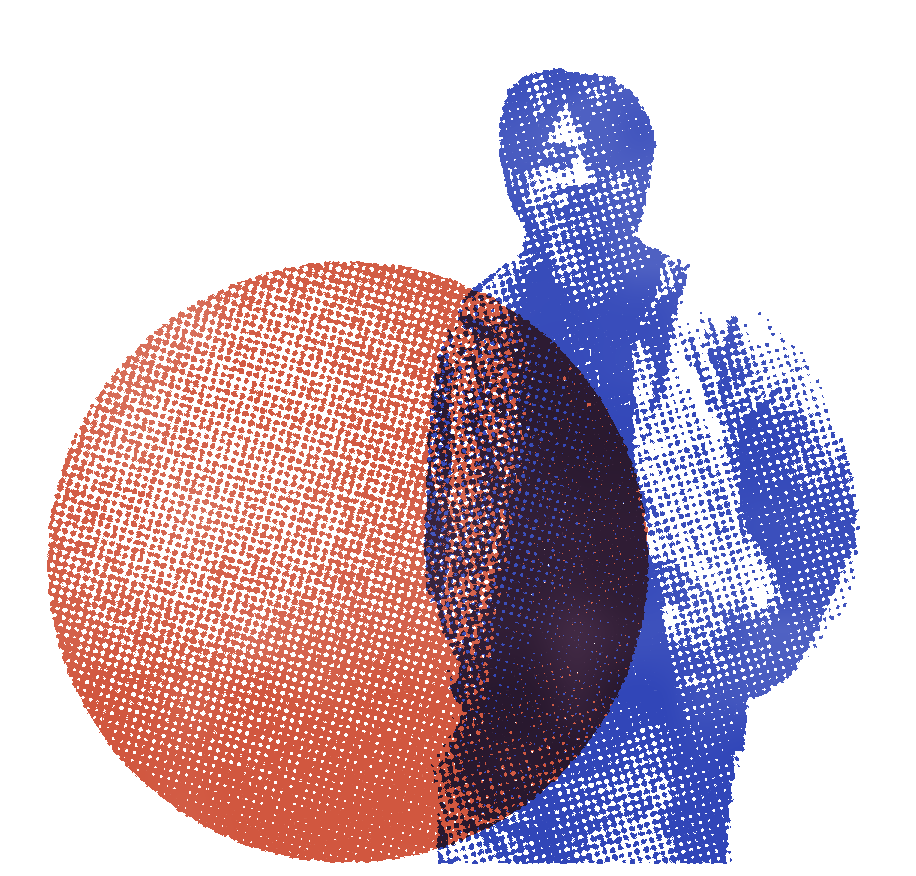
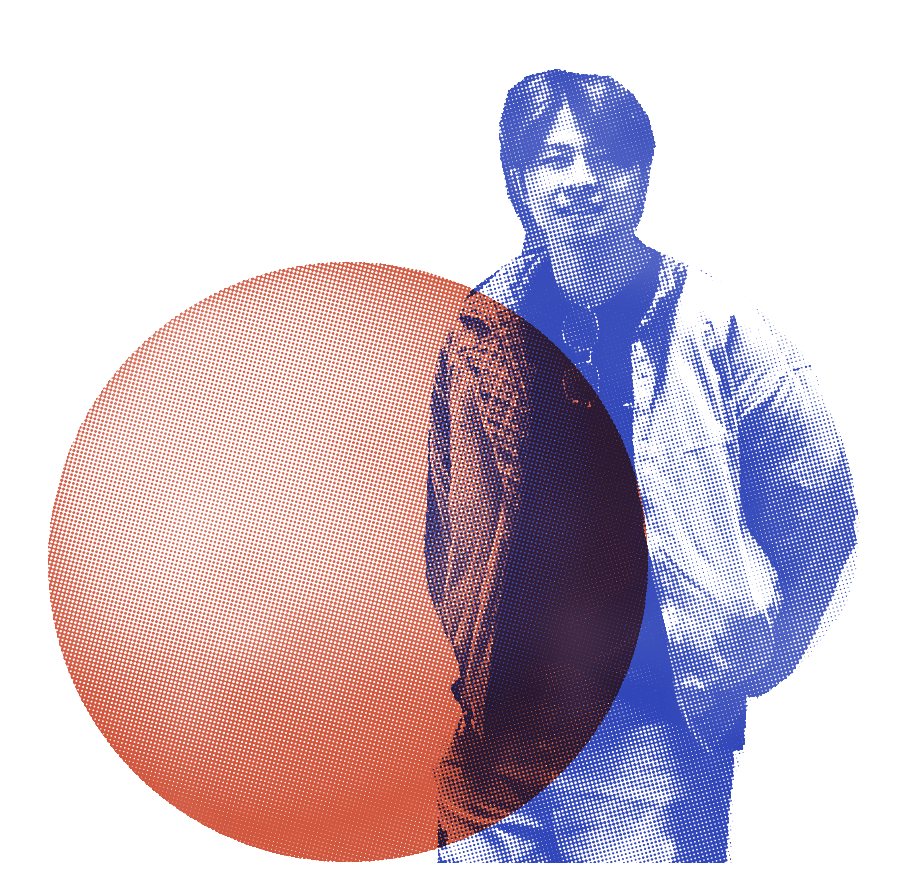
Align phone and desktop print states; faster first click; finer portrait screen
- Current nav tab is the same exact-register overprint at every width
- Hover-only effects live under @media (hover:hover); no sticky underline after tap
- Roller banding uses a fixed 1440px drum instead of stretching with page length
- Headings below 72px print in exact register (variant C)
- Portrait and its circle use the fine 2px screen
- Renderer yields between elements, prepares hidden areas when idle, encodes masks async;
  noise lookups optimised with unchanged random sequences
- DESIGN_CONSTRAINTS: sections 4, 16, 19 updated, new section 21

Claude-Session: https://claude.ai/code/session_013CxSncGybCVXkDwv6LtpYX

Changed region(s): [[0.0306, 0.0616, 0.9476, 0.9863]]

diff --git a/src/client/print-material.ts b/src/client/print-material.ts
@@ -48,44 +48,24 @@ if(root){
   const data=ground?paintMaterial([{ink,coverage:flat}],w,h,{a:[0,0,0],b:[0,0,0],paper:[255,255,255]},{...p,offset:{x:0,y:0}},dpr):new Uint8ClampedArray(w*h*4);
   for(let i=0;i<data.length;i+=4){const alpha=ground?255-data[i]:255*flat[i/4];data[i]=data[i+1]=data[i+2]=0;data[i+3]=alpha;}
   const canvas=pixelSurface(data,w,h);
-  const url=canvas.toDataURL();ticket.commit(()=>{el.style.maskImage=`url(${url})`;el.style.maskSize='100% 100%';el.dataset.materialMask='true';});
+  // Encode off the main thread; a superseded result is discarded and its URL released.
+  canvas.toBlob(blob=>{if(!blob)return;const url=URL.createObjectURL(blob);
+   if(!ticket.commit(()=>{const previous=el.dataset.maskUrl;el.style.maskImage=`url(${url})`;el.style.maskSize='100% 100%';el.dataset.materialMask='true';el.dataset.maskUrl=url;if(previous)URL.revokeObjectURL(previous);}))URL.revokeObjectURL(url);
+  });
  }
  function schedule(){cancelAnimationFrame(frame);frame=requestAnimationFrame(()=>void render());}
- async function render(){
-  const run=++generation;
-  await document.fonts.ready;if(run!==generation)return;
-  root!.querySelectorAll<HTMLElement>('.he-type-line').forEach(el=>{
-   const size=parseFloat(getComputedStyle(el).fontSize),large=size>=24;el.dataset.pressLarge=String(large);el.dataset.pressFine=String(size<24);el.dataset.textTier=textTier(size);
-   el.style.setProperty('--dot-pitch',`${dotPitch(size)}px`);
-   if(el.closest('.he-page')?.getAttribute('aria-hidden')==='true')return;
-   const owner=el.closest<HTMLElement>('[data-style-element]'),area=owner?.dataset.styleAreaOwner||el.closest<HTMLElement>('[data-style-area]')?.dataset.styleArea;
-   const s=resolve(config,area as Area|undefined,owner?.dataset.styleElement).values;
-   for(const ink of ['a','b'] as const){const layer=el.querySelector<HTMLElement>(`.he-type-${ink}`);if(!layer)continue;
-    const dotted=size>=72&&s.titleTreatment==='dotted'&&ink==='b'&&typeScreenLevel(size)!==null;
-    // The dotted plate is painted by CSS (--dot-plate) from the first frame; a JS mask would replace it.
-    if(dotted){if(layer.dataset.materialMask){layer.style.removeProperty('mask-image');layer.style.removeProperty('mask-size');delete layer.dataset.materialMask;inkMounts.get(layer)?.invalidate();}
-     recordScreen(layer,elementPress(pressSettings(s,typeScreenLevel(size)!,size),owner?.dataset.styleElement||'shared-type','title',size),ink,size);continue;}
-    if(size>=24)textureMask(layer,ink,s,false);else{layer.style.removeProperty('mask-image');delete layer.dataset.materialMask;inkMounts.get(layer)?.invalidate();clearScreen(layer);}
-   }
-  });
-  root!.querySelectorAll<HTMLElement>('.he-project-ground').forEach(el=>{
-   if(el.closest('.he-page')?.getAttribute('aria-hidden')==='true')return;
-   const s=resolve(config,el.dataset.styleAreaOwner as Area,el.dataset.styleElement).values;if(s.groundOpacity===0){clearScreen(el);return;}
-   textureMask(el,s.groundInk==='primary'?'b':'a',s);
-  });
-  root!.querySelectorAll<HTMLElement>('.he-divider-band').forEach(el=>{
-   const s=resolve(config,'home').values;
-   if(s.homeDividerStyle!=='print'){clearScreen(el);inkMounts.get(el)?.invalidate();return;}
-   textureMask(el,'b',{...s,groundOpacity:s.homeDividerCoverage});
-  });
-  for(const svg of root!.querySelectorAll<SVGSVGElement>('[data-print-field]')){
-   const bounds=svg.getBoundingClientRect();if(!bounds.width||!bounds.height)continue;
-   if(svg.closest('.he-page')?.getAttribute('aria-hidden')==='true')continue;
+ /** Each element is its own task so input can interleave; areas that are not on screen are
+  * prepared in idle time afterwards, so opening them later finds finished prints. */
+ const yieldToMain=()=>new Promise<void>(done=>setTimeout(done,0));
+ const whenIdle=()=>new Promise<void>(done=>{if('requestIdleCallback' in window)requestIdleCallback(()=>done(),{timeout:1500});else setTimeout(done,40);});
+ const offscreen=(el:Element)=>el.closest('.he-page')?.getAttribute('aria-hidden')==='true';
+ async function renderField(svg:SVGSVGElement,run:number){
+   const bounds=svg.getBoundingClientRect();if(!bounds.width||!bounds.height)return;
    const el=svg.parentElement!,page=svg.closest<HTMLElement>('.he-page')!;
    const s=resolve(config,svg.dataset.printArea as Area,svg.dataset.printField).values,global=resolve(config).values;
    let p=elementPress(pressSettings({...s,registration:global.registration,registrationY:global.registrationY}),svg.dataset.printField!,'field');
    const dpr=Math.max(1,devicePixelRatio||1),w=Math.round(svg.clientWidth*dpr),h=Math.round(svg.clientHeight*dpr),origin=paperOrigin(svg,page);
-   const palette=getPalette(config,s.palette),proof=root!.dataset.typeProof,key=JSON.stringify([w,h,s.fieldCoverage,s.fieldOverlap,page.offsetHeight,p,global.seed,palette,origin,proof]);p=onSheet(p,global.seed,origin,page.offsetHeight);let mount=mounts.get(svg);if(!mount){mount=createPrintMount();mounts.set(svg,mount);}const ticket=mount.begin(key);if(!ticket)continue;
+   const palette=getPalette(config,s.palette),proof=root!.dataset.typeProof,key=JSON.stringify([w,h,s.fieldCoverage,s.fieldOverlap,page.offsetHeight,p,global.seed,palette,origin,proof]);p=onSheet(p,global.seed,origin,page.offsetHeight);let mount=mounts.get(svg);if(!mount){mount=createPrintMount();mounts.set(svg,mount);}const ticket=mount.begin(key);if(!ticket)return;
    try{
     const originals:FieldOriginal[]=[],screenedInks=new Set<'a'|'b'>();
     for(const ink of ['a','b'] as const){
@@ -110,8 +90,44 @@ if(root){
     canvas.dataset.pressRecipe=JSON.stringify({level:p.level,shapes:p.shapes,pitch:p.pitch,angles:p.angles,offset:p.offset,origin,tone:p.tone,units:'CSS px',materialVersion});
 
    }catch(error){console.warn('Keeping pre-rendered print fallback.',error);}
+   }
+ async function render(){
+  const run=++generation;
+  await document.fonts.ready;if(run!==generation)return;
+  const later:(()=>void|Promise<void>)[]=[];
+  const now=async(job:()=>void|Promise<void>)=>{await job();await yieldToMain();return run===generation;};
+  for(const el of root!.querySelectorAll<HTMLElement>('.he-type-line')){
+   const size=parseFloat(getComputedStyle(el).fontSize),large=size>=24;el.dataset.pressLarge=String(large);el.dataset.pressFine=String(size<24);el.dataset.textTier=textTier(size);
+   el.style.setProperty('--dot-pitch',`${dotPitch(size)}px`);
+   const owner=el.closest<HTMLElement>('[data-style-element]'),area=owner?.dataset.styleAreaOwner||el.closest<HTMLElement>('[data-style-area]')?.dataset.styleArea;
+   const job=()=>{
+    const s=resolve(config,area as Area|undefined,owner?.dataset.styleElement).values;
+    for(const ink of ['a','b'] as const){const layer=el.querySelector<HTMLElement>(`.he-type-${ink}`);if(!layer)continue;
+     const dotted=size>=72&&s.titleTreatment==='dotted'&&ink==='b'&&typeScreenLevel(size)!==null;
+     // The dotted plate is painted by CSS (--dot-plate) from the first frame; a JS mask would replace it.
+     if(dotted){if(layer.dataset.materialMask){layer.style.removeProperty('mask-image');layer.style.removeProperty('mask-size');delete layer.dataset.materialMask;inkMounts.get(layer)?.invalidate();}
+      recordScreen(layer,elementPress(pressSettings(s,typeScreenLevel(size)!,size),owner?.dataset.styleElement||'shared-type','title',size),ink,size);continue;}
+     if(size>=24)textureMask(layer,ink,s,false);else{layer.style.removeProperty('mask-image');delete layer.dataset.materialMask;inkMounts.get(layer)?.invalidate();clearScreen(layer);}
+    }
+   };
+   if(offscreen(el))later.push(job);else if(!await now(job))return;
+  }
+  for(const el of root!.querySelectorAll<HTMLElement>('.he-project-ground')){
+   const job=()=>{const s=resolve(config,el.dataset.styleAreaOwner as Area,el.dataset.styleElement).values;if(s.groundOpacity===0){clearScreen(el);return;}
+    textureMask(el,s.groundInk==='primary'?'b':'a',s);};
+   if(offscreen(el))later.push(job);else if(!await now(job))return;
+  }
+  for(const el of root!.querySelectorAll<HTMLElement>('.he-divider-band')){
+   const job=()=>{const s=resolve(config,'home').values;
+    if(s.homeDividerStyle!=='print'){clearScreen(el);inkMounts.get(el)?.invalidate();return;}
+    textureMask(el,'b',{...s,groundOpacity:s.homeDividerCoverage});};
+   if(offscreen(el))later.push(job);else if(!await now(job))return;
+  }
+  for(const svg of root!.querySelectorAll<SVGSVGElement>('[data-print-field]')){
+   if(offscreen(svg))later.push(()=>renderField(svg,run));else if(!await now(()=>renderField(svg,run)))return;
   }
   root!.dispatchEvent(new CustomEvent('design:screen-rendered'));
+  for(const job of later){await whenIdle();if(run!==generation)return;await job();}
  }
  root.addEventListener('design:updated',e=>{config=(e as CustomEvent<DesignConfig>).detail;schedule();});
  root.addEventListener('design:type-updated',()=>{root!.querySelectorAll<HTMLElement>('.he-type-line').forEach(el=>observer.observe(el));schedule();});

diff --git a/src/styles/duotone-type.css b/src/styles/duotone-type.css
@@ -14,14 +14,17 @@
 #personal-site [data-treatment="dotted"]>.he-type-line>.he-type-b{color:var(--blue-ink);-webkit-text-fill-color:currentColor;background:none;transform:translate(var(--press-reg-x),var(--press-reg-y));}
 /* Navigation and linked project names receive the red plate on interaction. */
 #personal-site :is(.he-nav a,.he-project-imprint h3 a,.he-artifact h2 a,.he-pillars h3 a) .he-type-a{opacity:0;}
-#personal-site :is(.he-nav a,.he-project-imprint h3 a,.he-artifact h2 a,.he-pillars h3 a):is(:hover,:focus-visible,[aria-current="page"]) .he-type-a{opacity:1;}
+#personal-site :is(.he-nav a,.he-project-imprint h3 a,.he-artifact h2 a,.he-pillars h3 a):is(:focus-visible,[aria-current="page"]) .he-type-a{opacity:1;}
+@media (hover:hover){#personal-site :is(.he-nav a,.he-project-imprint h3 a,.he-artifact h2 a,.he-pillars h3 a):hover .he-type-a{opacity:1;}}
 #personal-site .he-nav a::after{filter:none;}
 #personal-site .he-pillars a .he-type-b{text-decoration:underline;text-decoration-thickness:1.5px;text-underline-offset:4px;}
-#personal-site a:hover .he-type-line>.he-type-b{text-decoration:underline;text-underline-offset:.12em;}
+@media (hover:hover){#personal-site a:hover .he-type-line>.he-type-b{text-decoration:underline;text-underline-offset:.12em;}}
 /* Fine type is one untextured blue plate, with no artificial grey hierarchy. */
 #personal-site :is(p,summary,.he-date,.he-meta,.he-item-meta,.he-contact a,.he-project-resources a,.he-theme-tags a,.he-shortcuts a,.he-reading-marker,.he-artifact-controls button,.he-artifact-group-label,.he-slogan-prefix){background-image:none;-webkit-text-fill-color:currentColor;}
 #personal-site :is(.em-ink,.em-knock){background:none;color:inherit;-webkit-text-fill-color:currentColor;font:inherit;font-weight:600;text-decoration:none;padding:0;margin:0;}
 #personal-site .he-type-line[data-press-fine="true"]>.he-type-a{opacity:0!important;}
+/* Exception: the current tab is the same exact-register overprint at every width, so phone and desktop show one state. */
+#personal-site .he-nav a[aria-current="page"] .he-type-line[data-press-fine="true"]>.he-type-a{opacity:1!important;}
 #personal-site .he-type-line[data-press-fine="true"]>.he-type-b{transform:none;filter:none;mask-image:none!important;}
 #personal-site .he-item-meta strong{background:var(--blue-ink);color:var(--paper);-webkit-text-fill-color:var(--paper);}
 #personal-site .he-page::after{opacity:1;}
@@ -77,3 +80,9 @@
 @supports (width:round(nearest,1px,1px)){#personal-site [data-treatment="dotted"]>.he-type-line{--dot-pitch:max(2px,round(nearest,1em / 16,1px));}}
 #personal-site [data-treatment="dotted"]>.he-type-line>.he-type-b{-webkit-mask-image:var(--dot-plate);mask-image:var(--dot-plate);-webkit-mask-repeat:no-repeat;mask-repeat:no-repeat;-webkit-mask-position:0 0;mask-position:0 0;-webkit-mask-size:calc(var(--dot-pitch) * 400) calc(var(--dot-pitch) * 100);mask-size:calc(var(--dot-pitch) * 400) calc(var(--dot-pitch) * 100);}
 #personal-site [data-treatment="dotted"]>.he-type-line:is([data-text-tier="heading"],[data-text-tier="body"])>.he-type-b{-webkit-mask-image:none;mask-image:none;}
+
+/* Misregistration belongs to display type only (>=72px). Below that a .75px shift is a large
+   share of the stroke and reads as colour fringing, worst on phones; headings print in exact
+   register and keep the two-ink overprint colour. The gate is computed from 1em, so it holds
+   from the first frame. The dotted name keeps its own .5px rule above. */
+#personal-site :not([data-treatment="dotted"])>.print-2ink.he-type-line>.he-type-b{--type-reg:clamp(0px,calc((1em - 71.5px) * 1000),.75px);transform:translate(clamp(calc(-1 * var(--type-reg)),var(--press-reg-x),var(--type-reg)),clamp(calc(-1 * var(--type-reg)),var(--press-reg-y),var(--type-reg)));}

diff --git a/src/design/print-pipeline/noise.ts b/src/design/print-pipeline/noise.ts
@@ -5,13 +5,30 @@ export function salt(seed:number,key:string){for(const c of key)seed=Math.imul(s
 /** Continuous seeded value noise; four octaves form an fBm field in CSS pixels.
  * Lattice randomness uses Print Lab's original mulberry32 PRNG. */
 export function valueNoise(seed:number,cell:number){
- const cache=new Map<string,number>();
- const value=(x:number,y:number)=>{const key=`${x}:${y}`;let v=cache.get(key);if(v===undefined){v=rng(salt(seed,key))();cache.set(key,v);}return v;};
- return (x:number,y:number)=>{x/=cell;y/=cell;const ix=Math.floor(x),iy=Math.floor(y),u=smooth(x-ix),v=smooth(y-iy),a=value(ix,iy),b=value(ix+1,iy),c=value(ix,iy+1),d=value(ix+1,iy+1);return(a+(b-a)*u)*(1-v)+(c+(d-c)*u)*v;};
+ // Lattice values are unchanged (seeded by the "x:y" key). Lookups use a numeric key and
+ // reuse the last cell's four corners, since neighbouring pixels almost always share it.
+ const cache=new Map<number,number>(),bias=1<<20,span=2**21;
+ const value=(x:number,y:number)=>{const key=(x+bias)*span+(y+bias);let v=cache.get(key);if(v===undefined){v=rng(salt(seed,`${x}:${y}`))();cache.set(key,v);}return v;};
+ let cx=NaN,cy=NaN,a=0,b=0,c=0,d=0;
+ return (x:number,y:number)=>{x/=cell;y/=cell;const ix=Math.floor(x),iy=Math.floor(y);
+  if(ix!==cx||iy!==cy){cx=ix;cy=iy;a=value(ix,iy);b=value(ix+1,iy);c=value(ix,iy+1);d=value(ix+1,iy+1);}
+  const u=smooth(x-ix),v=smooth(y-iy);return(a+(b-a)*u)*(1-v)+(c+(d-c)*u)*v;};
 }
 export function fbm(seed:number,cell:number){const fields=Array.from({length:4},(_,i)=>valueNoise(salt(seed,String(i)),cell/2**i));return(x:number,y:number)=>fields.reduce((n,f,i)=>n+f(x,y)*2**-i,0)/1.875;}
 
 export {lowNoise,spread,spotT,boxBlur} from '../vendor/print-lab-core.js';
+/** Print Lab's lowNoise(n, grid, r) restricted to the top-left w×h of its n×n square, with
+ * stride w. The lattice draws happen first and in the same order, so every value is
+ * identical to the square version; only the unused rows and columns are skipped. */
+export function lowNoiseRect(n:number,grid:number,r:()=>number,w:number,h:number){
+ const G=grid+1,v=new Float32Array(G*G);for(let i=0;i<v.length;i++)v[i]=r();
+ const out=new Float32Array(w*h),sc=grid/n;
+ for(let y=0;y<h;y++){const fy=y*sc,iy=Math.floor(fy),ty=fy-iy,sy=ty*ty*(3-2*ty);
+  for(let x=0;x<w;x++){const fx=x*sc,ix=Math.floor(fx),tx=fx-ix,sx=tx*tx*(3-2*tx);
+   const a=v[iy*G+ix],b=v[iy*G+ix+1],c=v[(iy+1)*G+ix],d=v[(iy+1)*G+ix+1];
+   out[y*w+x]=(a+(b-a)*sx)+((c+(d-c)*sx)-(a+(b-a)*sx))*sy;}}
+ return out;
+}
 
 // Versioned compatibility generators. Do not substitute algorithms: seeds are visual data.
 export function legacyXorshift(seed:number){let s=seed>>>0||1;return()=>{s^=s<<13;s^=s>>>17;s^=s<<5;return((s>>>0)%100000)/100000;};}

diff --git a/src/styles/press-system.css b/src/styles/press-system.css
@@ -9,16 +9,16 @@
 #personal-site .he-print-word .he-type-line {width:auto;}
 #personal-site .he-print-word .he-type-a {transform:translate(calc(-1 * clamp(-.025em,var(--registration-x),.025em)),calc(-1 * clamp(-.015em,var(--registration-y),.015em)));}
 #personal-site :is(.he-project h3,.he-artifact h2) a {text-decoration:none;display:inline;}
-#personal-site :is(.he-project h3,.he-artifact h2) a:hover {text-decoration:underline;text-decoration-thickness:2px;text-underline-offset:8px;}
+@media (hover:hover){#personal-site :is(.he-project h3,.he-artifact h2) a:hover {text-decoration:underline;text-decoration-thickness:2px;text-underline-offset:8px;}}
 #personal-site .he-project-resources a,#personal-site .he-contact a {text-decoration:none;border-bottom:1.5px solid var(--ink);padding-block:4px;}
-#personal-site .he-project-resources a:hover,#personal-site .he-contact a:hover {border-bottom-width:3px;}
+@media (hover:hover){#personal-site .he-project-resources a:hover,#personal-site .he-contact a:hover {border-bottom-width:3px;}}
 #personal-site .he-item-meta {font:500 11px/1.7 var(--metadata-face);letter-spacing:.025em;color:var(--ink);}
 #personal-site .he-item-meta strong {font-weight:500;background:var(--ink);color:var(--paper);padding:4px 6px;margin-right:8px;box-decoration-break:clone;}
 #personal-site .he-theme-tags {gap:8px 18px;}
 #personal-site .he-theme-tags li {border:0;}
 #personal-site .he-theme-tags a {text-decoration:none;}
 #personal-site .he-theme-tags a::before {content:"↗";margin-right:5px;color:var(--ink);}
-#personal-site .he-theme-tags a:hover {text-decoration:underline;}
+@media (hover:hover){#personal-site .he-theme-tags a:hover {text-decoration:underline;}}
 #personal-site .he-project-details {border-top:0;border-bottom:1.5px solid var(--ink);}
 #personal-site .he-project-details summary {font:400 11px/1.6 var(--metadata-face);padding-block:14px;}
 #personal-site .he-external-mark {font:400 .6em/1 var(--metadata-face);vertical-align:top;display:inline-block;margin-left:.15em;}
@@ -63,7 +63,7 @@
 #personal-site .he-publication-index li::marker {font:500 12px var(--metadata-face);color:var(--blue-ink);}
 #personal-site .he-publication-index li .he-item-meta {border-left:3px solid var(--blue-ink);padding-left:10px;}
 #personal-site .he-publication-index h3 a {text-decoration:none;}
-#personal-site .he-publication-index h3 a:hover {text-decoration:underline;}
+@media (hover:hover){#personal-site .he-publication-index h3 a:hover {text-decoration:underline;}}
 
 /* Artifacts remain interleaved; content identity controls its printed object.
    Regrouping changes the grid placement, never the object attached to a work. */

diff --git a/src/styles/navigation.css b/src/styles/navigation.css
@@ -8,7 +8,7 @@
 #personal-site .he-nav-label {max-inline-size:100%;font:750 clamp(17px,1.9cqw,25px)/1.08 var(--display-face);letter-spacing:-.025em;color:inherit;}
 #personal-site .he-nav a::after {content:"";position:absolute;left:0;right:0;bottom:0;height:max(3px,var(--geometry-stroke));background:var(--red-ink);opacity:0;pointer-events:none;}
 #personal-site .he-nav a[aria-current="page"]::after {opacity:1;}
-#personal-site .he-nav a:not([aria-current="page"]):hover .he-nav-label {text-decoration:underline;text-decoration-thickness:2px;text-underline-offset:5px;}
+@media (hover:hover){#personal-site .he-nav a:not([aria-current="page"]):hover .he-nav-label,#personal-site .he-shortcuts a:hover {text-decoration:underline;text-decoration-color:var(--ink);text-decoration-thickness:2px;text-underline-offset:5px;}}
 #personal-site .he-nav a:focus-visible {outline:2px solid var(--ink);outline-offset:6px;}
 #personal-site .he-nav-plate {display:none;position:absolute;inset:3px -7px 0;width:calc(100% + 14px);height:calc(100% - 3px);overflow:visible;z-index:-1;pointer-events:none;isolation:isolate;}
 #personal-site .he-nav-plate-a {fill:var(--red-ink);transform:translate(clamp(-3px,var(--registration-x),3px),clamp(-3px,var(--registration-y),3px));}
@@ -29,7 +29,7 @@
 #personal-site .he-shortcuts[hidden] {display:none;}
 #personal-site .he-shortcuts a {display:flex;gap:12px;align-items:center;min-height:44px;color:var(--ink);text-decoration:none;font:500 13px/1.3 var(--reading-face);}
 #personal-site .he-shortcuts a > span {font:500 12px/1.5 var(--metadata-face);}
-#personal-site .he-shortcuts a:hover,#personal-site .he-shortcuts a[aria-current="location"] {text-decoration:underline;text-decoration-color:var(--ink);text-decoration-thickness:2px;text-underline-offset:5px;}
+#personal-site .he-shortcuts a[aria-current="location"] {text-decoration:underline;text-decoration-color:var(--ink);text-decoration-thickness:2px;text-underline-offset:5px;}
 @container(max-width:720px) {
  #personal-site .he-nav a {grid-column:span 1;}
 }

diff --git a/src/design/print-pipeline/tone.ts b/src/design/print-pipeline/tone.ts
@@ -1,4 +1,4 @@
-import {lowNoise,rng} from './noise.ts';
+import {lowNoiseRect,rng} from './noise.ts';
 import {noiseBudget,within} from './budget.ts';
 import type {Settings} from '../settings.ts';
 
@@ -18,8 +18,8 @@ export function makeToneField(mask:Float32Array,width:number,height:number,scale
  if(s.exposure===0)return new Float32Array(width*height);
  // Pre-screen variation resizes dots: bounded amplitude, never finer than the budget scale.
  const amplitude=within(s.noise,noiseBudget.tone.amplitude),featureScale=Math.max(noiseBudget.tone.minScale,s.noiseScale||0);
- const n=Math.max(width,height),random=rng(seed),noise=lowNoise(n,Math.max(1,Math.ceil(n/(featureScale*.5*scale))),random);
- const second=lowNoise(n,Math.max(1,Math.ceil(n/(featureScale*.23*scale))),random);
+ const n=Math.max(width,height),random=rng(seed),noise=lowNoiseRect(n,Math.max(1,Math.ceil(n/(featureScale*.5*scale))),random,width,height);
+ const second=lowNoiseRect(n,Math.max(1,Math.ceil(n/(featureScale*.23*scale))),random,width,height);
  const out=new Float32Array(width*height),angle=s.light*Math.PI/180,lx=Math.cos(angle)*.66,ly=Math.sin(angle)*.66,lz=Math.sqrt(1-.66*.66);
  const clamp=(v:number,a:number,b:number)=>Math.max(a,Math.min(b,v));
  for(let y=0;y<height;y++)for(let x=0;x<width;x++){
@@ -37,7 +37,7 @@ export function makeToneField(mask:Float32Array,width:number,height:number,scale
    const direction=-(u*lx+v*ly)/(Math.abs(lx)+Math.abs(ly));
    value=(s.planeMin+s.planeMax)/2+(s.planeMax-s.planeMin)/2*direction*s.direction;
   }
-  const variation=((noise[y*n+x]*.7+second[y*n+x]*.3)-.5)*2*amplitude;
+  const variation=((noise[i]*.7+second[i]*.3)-.5)*2*amplitude;
   const lo=kind==='sphere'?s.sphereMin:s.planeMin,hi=kind==='sphere'?s.sphereMax:s.planeMax;
   out[i]=mask[i]*clamp(clamp(value+variation,lo,hi)*s.exposure,.005,.97);
  }

diff --git a/src/client/portrait-composition.ts b/src/client/portrait-composition.ts
@@ -1,7 +1,7 @@
 import {paperOrigin,pixelSurface,cropSurface,publishCanvas,createPrintMount} from '../design/print-pipeline/browser';
 import {recordScreen} from './screen-data';
 import {design} from '../config/design';
-import {selectedComposition as recipe,portraitViewport as view} from '../config/portrait-composition';
+import {selectedComposition as recipe,portraitViewport as view,portraitScreenLevel} from '../config/portrait-composition';
 import {canvasLayers,paintComposition,type CompositionChoice} from '../design/composition-canvas';
 import {getPalette,resolve,type DesignConfig} from '../design/settings';
 import type {Operation} from '../design/element-composition';
@@ -25,7 +25,7 @@ if(root&&figure&&canvas&&fallback){
    const palette=getPalette(config,s.palette),dpr=Math.max(window.devicePixelRatio||1,1);
    const choice:CompositionChoice={op:s.compositionOperation as Operation,shape:s.compositionShape,pitch:s.compositionPitch,mis:s.compositionMis};
    const width=Math.round(fallback.clientWidth*dpr),fullWidth=Math.round(width*recipe.sheet.width/view.width);
-   let press=elementPress(pressSettings({...s,registration:resolve(config).values.registration,registrationY:resolve(config).values.registrationY}),'home-portrait','image');
+   let press=elementPress(pressSettings({...s,registration:resolve(config).values.registration,registrationY:resolve(config).values.registrationY},portraitScreenLevel),'home-portrait','image');
    const position=paperOrigin(fallback,home!),unit=fallback.clientWidth/view.width;
    const origin={x:position.x-view.x*unit,y:position.y-view.y*unit};
    press=onSheet(press,resolve(config).values.seed,origin,home!.offsetHeight);

diff --git a/src/design/print-pipeline/sheet.ts b/src/design/print-pipeline/sheet.ts
@@ -10,9 +10,13 @@ function createFields(seed:number){const random=rng(salt(seed,'sheet-roller')),r
 export function sheetFields(seed:number){let f=fields.get(seed);if(!f){f=createFields(seed);if(fields.size>=4)fields.clear();fields.set(seed,f);}return f;}
 export function sheetInk(seed:number,x:number,y:number){const f=sheetFields(seed);return f.low(x,y)*.65+f.detail(x,y)*.35;}
 export function onSheet<Id extends string>(press:Press<Id>,seed:number,origin:{x:number;y:number},height=1440):Press<Id>{return {...press,sheet:{seed,origin,height,band:press.band}};}
-/** Native 20-interval smoothstep roller field, sampled in sheet Y coordinates. */
+/** Roller marks are a property of the press, not of the page: one drum of 20 smoothstep
+ * intervals spans 1440 CSS px (the design canvas) and then runs back, so every page,
+ * at every width and length, carries roller bands of the same size at the same sheet Y.
+ * Within 0–1440 the field is the native one; past it, it mirrors (seamless, no clamp). */
+export const rollerDrum=1440;
 export function sheetRoller(sheet:Sheet,y:number){
- const rows=sheetFields(sheet.seed).rows,position=Math.max(0,Math.min(20,y/(sheet.height||1440)*20)),i=Math.min(19,Math.floor(position)),t=position-i,u=t*t*(3-2*t);
+ const rows=sheetFields(sheet.seed).rows,turn=((y/rollerDrum)%2+2)%2,position=(turn>1?2-turn:turn)*20,i=Math.min(19,Math.floor(position)),t=position-i,u=t*t*(3-2*t);
  return Math.max(0,Math.min(1,((rows[i]+(rows[i+1]-rows[i])*u)-.5)*2.4+.5));
 }
 /** Rectangular counterpart of native spread; binary expansion, no convolution. */

diff --git a/src/styles/research-map.css b/src/styles/research-map.css
@@ -11,7 +11,7 @@
 #personal-site .rm-label-hit{fill:none;stroke:transparent;pointer-events:stroke;}
 #personal-site .rm-label-arc text{pointer-events:visiblePainted;}
 #personal-site .rm-directions a:focus-visible{outline:none;}
-#personal-site .rm-directions a:is(:hover,:focus-visible) text{text-decoration:underline;text-decoration-thickness:2px;text-underline-offset:4px;}
+@media (hover:hover){#personal-site .rm-directions a:is(:hover,:focus-visible) text{text-decoration:underline;text-decoration-thickness:2px;text-underline-offset:4px;}}
 #personal-site:has(.research-map[data-view="circles"]) .rm-tree,#personal-site:has(.research-map[data-view="circles"]) .he-home-branches{display:none;}
 #personal-site .research-map[data-view="tree"]{display:none;}
 #personal-site:has(.research-map[data-view="circles"]) .he-home .he-brand{grid-column:1/5;}
@@ -35,7 +35,7 @@
 #personal-site .rm-touch-help{display:none;}
 @media(pointer:coarse){#personal-site .rm-touch-help{display:block;font-size:12px;}#personal-site .rm-touch-help a[hidden]{display:none;}}
 
-#personal-site .rm-directions a:hover{text-decoration:underline;}
+@media (hover:hover){#personal-site .rm-directions a:hover{text-decoration:underline;}}
 #personal-site .rm-fallback{position:absolute;inset:0;width:100%;height:100%;}
 #personal-site .rm-inks{visibility:hidden;}
 #personal-site [data-canvas-ready="true"] .rm-inks{visibility:visible;}

diff --git a/src/styles/print-material.css b/src/styles/print-material.css
@@ -10,7 +10,9 @@
 #personal-site .he-type-line>.he-type-a{transform:none;color:var(--red-ink);text-shadow:none;-webkit-text-stroke:0;}
 #personal-site .he-type-line>.he-type-b{transform:translate(var(--registration-x),var(--registration-y));color:var(--blue-ink);mix-blend-mode:multiply;text-shadow:none;-webkit-text-stroke:0;}
 #personal-site .he-type-line>span[data-material-mask="true"],#personal-site .he-project-ground[data-material-mask="true"]{filter:none;}
+/* The current tab keeps its red plate at every size: below 72px text is exactly registered. */
 #personal-site .he-type-line[data-press-large="false"]>.he-type-a{visibility:hidden;}
+#personal-site .he-nav a[aria-current="page"] .he-type-line[data-press-large="false"]>.he-type-a{visibility:visible;}
 #personal-site .he-type-line[data-press-large="false"]>.he-type-b{transform:none;filter:none;}
 #personal-site [data-treatment="solid"] .he-type-b{transform:none;}
 /* Dotted display type is supplied by the shared angle-aware screen mask. */

diff --git a/src/styles/sections.css b/src/styles/sections.css
@@ -1,7 +1,7 @@
 /* Layout study 06. Ink, screening and print defects remain unapproved parameters. */
 #personal-site { --he-header-height: 150px;  }
 #personal-site .he-pillars a { color: inherit; text-decoration: underline; text-decoration-color: var(--rule-ink); text-underline-offset: 4px; text-decoration-thickness: 1px; }
-#personal-site .he-pillars a:hover { color: var(--blue-ink); text-decoration-color: currentColor; }
+@media (hover:hover){#personal-site .he-pillars a:hover { color: var(--blue-ink); text-decoration-color: currentColor; }}
 #personal-site .he-research-page, #personal-site .he-artifacts-page { isolation: isolate; }
 #personal-site .he-research-masthead { display: grid; grid-template-columns: repeat(12,minmax(0,1fr)); column-gap: var(--column-gap); align-items: end; padding-bottom: 54px; }
 #personal-site .he-research-masthead .he-meta { grid-column: 1/13; margin-bottom: 24px; }

diff --git a/src/styles/home-main.css b/src/styles/home-main.css
@@ -133,7 +133,7 @@
 #personal-site .he-print-lab-spread .he-insert-sheet{position:relative;display:block;margin:0;padding:6px;background:var(--paper);border:0;box-shadow:none;}
 #personal-site .he-print-lab-spread .he-insert-caption{display:block;margin-top:12px;color:var(--blue-ink);}
 #personal-site .he-print-lab-spread a:focus-visible{outline:2px solid var(--blue-ink);outline-offset:7px;}
-#personal-site .he-print-lab-spread a:hover .he-insert-caption{text-decoration:underline;text-underline-offset:3px;}
+@media (hover:hover){#personal-site .he-print-lab-spread a:hover .he-insert-caption{text-decoration:underline;text-underline-offset:3px;}}
 
 /* A spot yellow belongs only to the inserted project's attachment material. */
 #personal-site .he-print-lab-spread{--insert-tape-ink:#f2df8a;}
